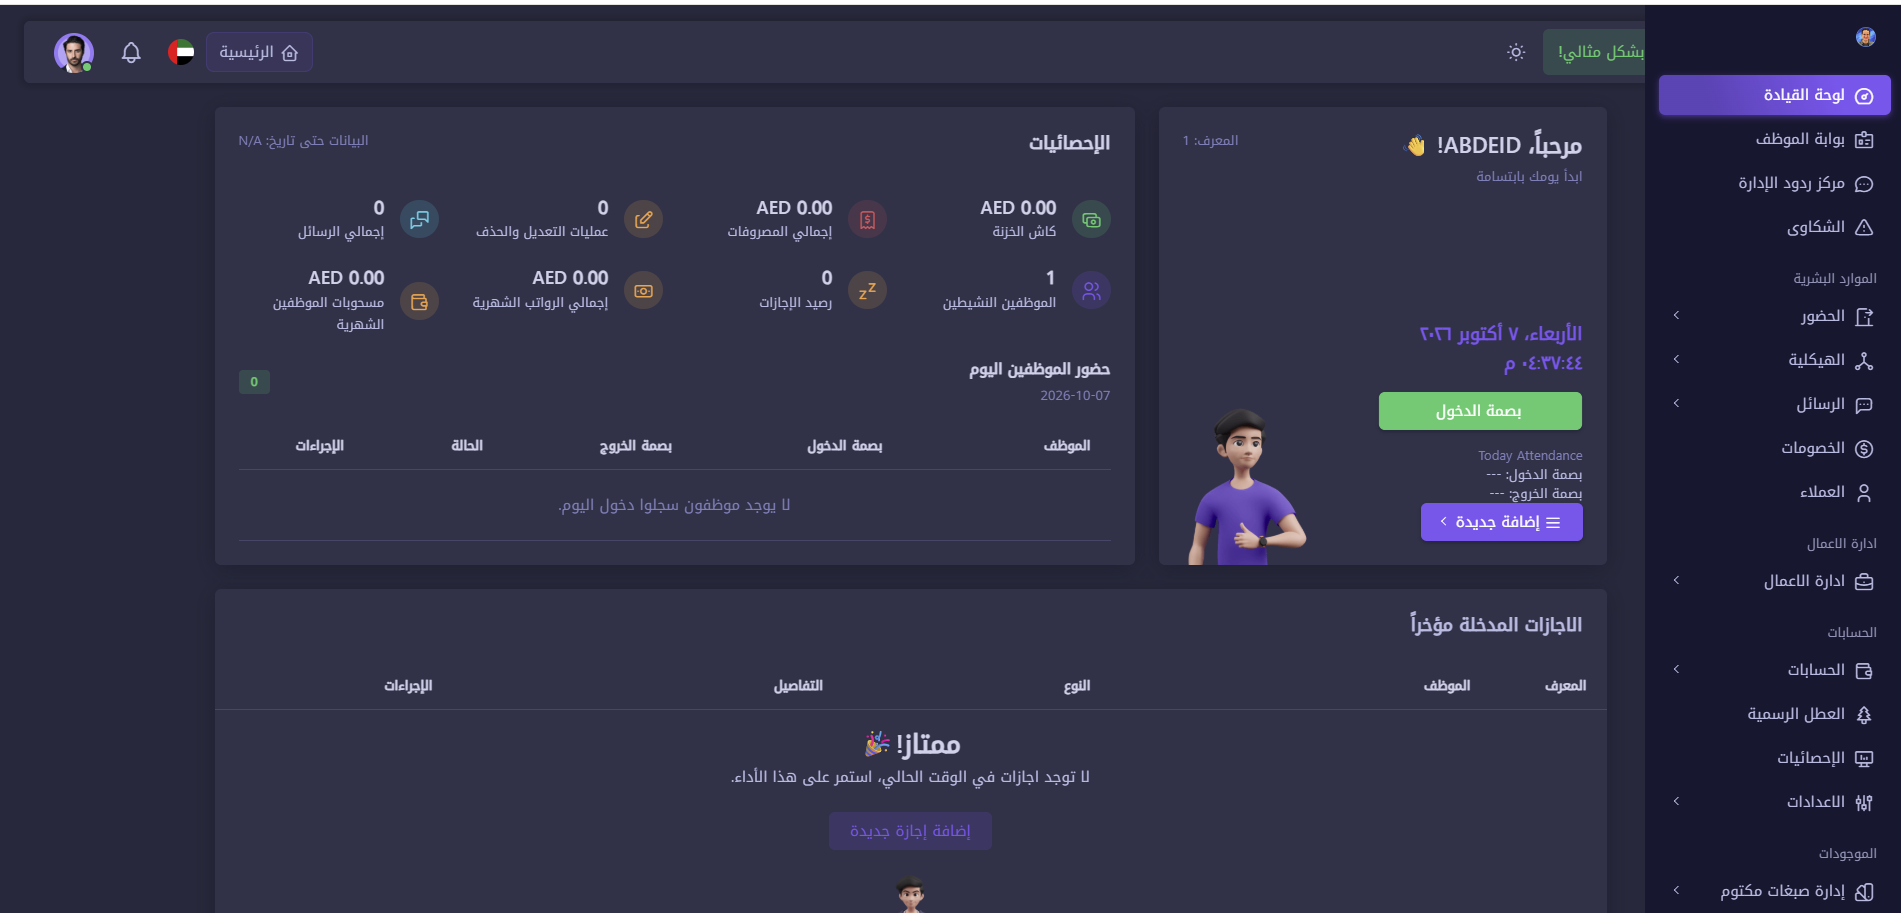
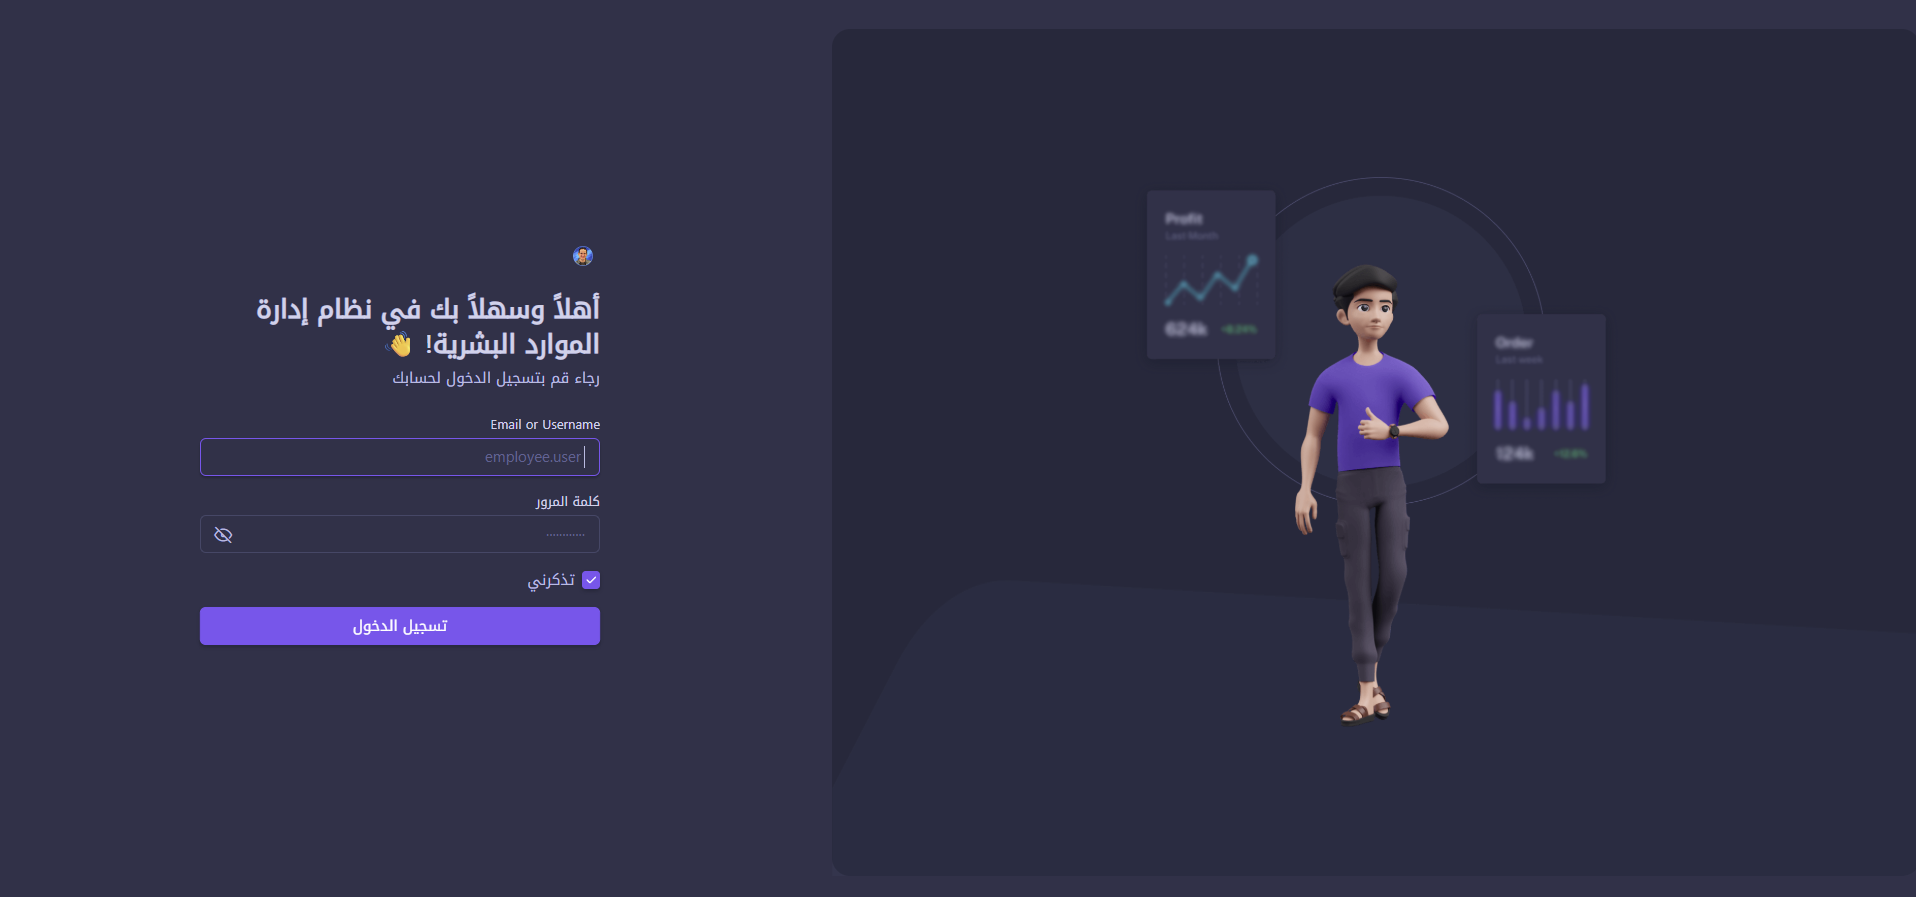
Update dashboard screenshot and README

diff --git a/README.md b/README.md
@@ -178,8 +178,8 @@ A branch-based workspace for organizing confidential documents in folders protec
 10. Login:
 
     ```bash
-    email: admin@demo.com
-    password: admin
+    email: hrms@abdeid.com
+    password: 112233445566
     ```
 
 ## Contribution
@@ -200,7 +200,8 @@ Copyright (c) 2026 **ABDEID**, for his original additions.
 
 See [LICENSE](LICENSE) for the licensing scope and [NOTICE](NOTICE) for attribution.
 The original HRMS remains under its existing [MIT license](LICENSE.md).
-Upstream attribution: [HRMS by Amr Alsaleh](https://github.com/amralsaleeh/HRMS).
+Project author: [Abdallah Eid](https://github.com/ABDEID-dev).
+Upstream source: [HRMS](https://github.com/amralsaleeh/HRMS).
 ABDEID's original additions, including Enterprise materials, are reserved
 under [ABDEID Proprietary License](LICENSE-ENTERPRISE.md) unless explicitly released otherwise.
 Only explicitly designated files may use [Apache 2.0](licenses/Apache-2.0.txt);
